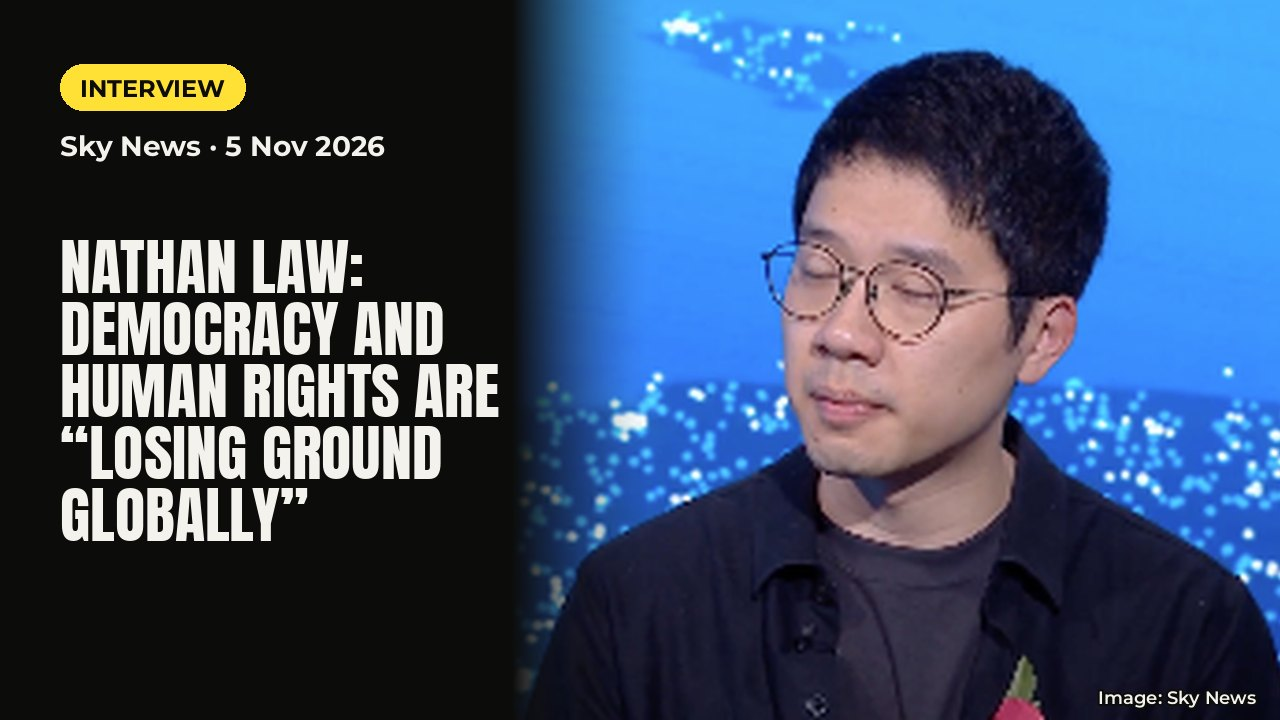
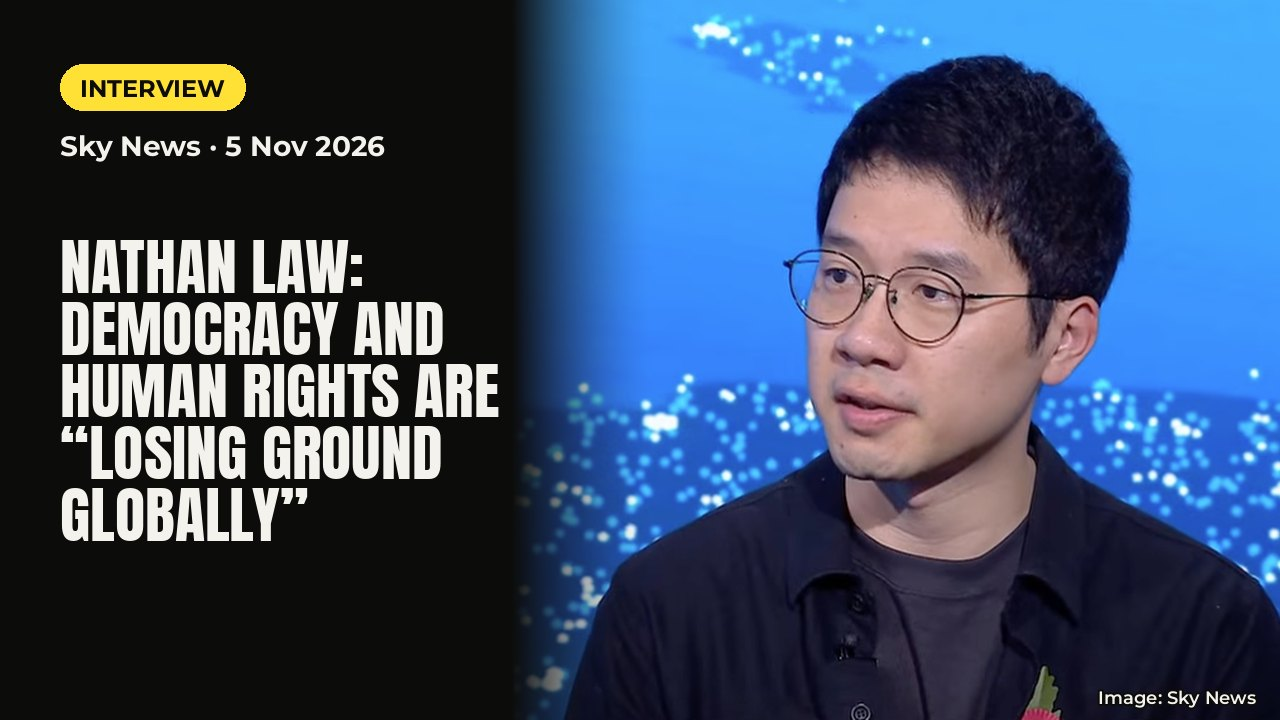
Watch: Nathan Law Sky News card uses a sharp still from the interview (credited Sky News)
Claude-Session: https://claude.ai/code/session_01MmFPUvhE95qVANrbvdPVAE

Changed region(s): [[0.4062, 0.0, 1.0, 1.0], [0.625, 0.9472, 0.6875, 1.0], [0.7812, 0.1833, 0.8125, 0.2139]]

diff --git a/film.html b/film.html
@@ -67,8 +67,8 @@
         <div class="vc-img"><img src="images/commons-2026-11-10-kearns-poster.jpg" alt="" loading="lazy"><span class="vc-play"></span></div>
         <div class="vc-k">House of Commons · 10 Nov 2026</div><h3>Alicia Kearns MP</h3><p>For the Opposition: Joshua and Jimmy Lai remain imprisoned for speaking out for democracy.</p></a><a class="vcard has-cover" href="https://podcasts.apple.com/gb/podcast/today-in-focus/id1440133626?i=1000801652639" target="_blank" rel="noopener">
         <div class="vc-img"><img src="images/covers/guardian-podcast.jpg" alt="" loading="lazy"><span class="vc-play"></span><span class="vc-ext">Opens on Apple Podcasts</span></div>
-        <div class="vc-k">The Guardian · Today in Focus · 13 Nov 2026</div><h3>Teen prodigy, Netflix star, prisoner</h3><p>Podcast: Nathan Law and journalist Danny Vincent on Joshua’s story and his new sentence.</p></a><a class="vcard has-cover" href="https://www.youtube.com/live/iw5a5aQKgNM?t=2400" target="_blank" rel="noopener">
-        <div class="vc-img"><img src="images/covers/sky-nathan.jpg" alt="" loading="lazy"><span class="vc-play"></span><span class="vc-ext">Opens on YouTube</span></div>
+        <div class="vc-k">The Guardian · Today in Focus · 13 Nov 2026</div><h3>Teen prodigy, Netflix star, prisoner</h3><p>Podcast: Nathan Law and journalist Danny Vincent on Joshua’s story and his new sentence.</p></a><a class="vcard" href="https://www.youtube.com/live/iw5a5aQKgNM?t=2400" target="_blank" rel="noopener">
+        <div class="vc-img"><img src="images/stills/sky-nathan.jpg" alt="" loading="lazy"><span class="vc-play"></span><span class="vc-ext">Opens on YouTube</span></div>
         <div class="vc-k">Sky News · 5 Nov 2026</div><h3>Nathan Law on Sky News</h3><p>On the day of the sentence, Nathan tells Yalda Hakim that democracy and human rights are “losing ground globally”.</p></a><a class="vcard has-cover" href="https://www.youtube.com/watch?v=gwQ1bK0KSJE" target="_blank" rel="noopener">
         <div class="vc-img"><img src="images/covers/byline-tv.jpg" alt="" loading="lazy"><span class="vc-play"></span><span class="vc-ext">Opens on YouTube</span></div>
         <div class="vc-k">Byline Times TV · 26 Oct 2026</div><h3>China versus Joshua Wong</h3><p>Video: filmmaker Andrew Duncan tells Joshua’s story to Adrian Goldberg.</p></a><a class="vcard" href="parliament.html#exchange-tugendhat">

diff --git a/tools/build.py b/tools/build.py
@@ -886,7 +886,7 @@ VIDEOS = [
     ("#exchange-nov", "House of Commons · 10 Nov 2026", "Emily Darlington MP", "Asks the Government to call for Joshua’s release, five days after his sentence.", "images/commons-2026-11-10-poster.jpg", False),
     ("#exchange-kearns", "House of Commons · 10 Nov 2026", "Alicia Kearns MP", "For the Opposition: Joshua and Jimmy Lai remain imprisoned for speaking out for democracy.", "images/commons-2026-11-10-kearns-poster.jpg", False),
     ("https://podcasts.apple.com/gb/podcast/today-in-focus/id1440133626?i=1000801652639", "The Guardian · Today in Focus · 13 Nov 2026", "Teen prodigy, Netflix star, prisoner", "Podcast: Nathan Law and journalist Danny Vincent on Joshua’s story and his new sentence.", "images/covers/guardian-podcast.jpg", True),
-    ("https://www.youtube.com/live/iw5a5aQKgNM?t=2400", "Sky News · 5 Nov 2026", "Nathan Law on Sky News", "On the day of the sentence, Nathan tells Yalda Hakim that democracy and human rights are “losing ground globally”.", "images/covers/sky-nathan.jpg", True),
+    ("https://www.youtube.com/live/iw5a5aQKgNM?t=2400", "Sky News · 5 Nov 2026", "Nathan Law on Sky News", "On the day of the sentence, Nathan tells Yalda Hakim that democracy and human rights are “losing ground globally”.", "images/stills/sky-nathan.jpg", True),
     ("https://www.youtube.com/watch?v=gwQ1bK0KSJE", "Byline Times TV · 26 Oct 2026", "China versus Joshua Wong", "Video: filmmaker Andrew Duncan tells Joshua’s story to Adrian Goldberg.", "images/covers/byline-tv.jpg", True),
     ("#exchange-tugendhat", "House of Commons · 10 Nov 2026", "Tom Tugendhat MP", "The Shadow Foreign Secretary names Joshua in the Commonwealth summit statement.", "images/commons-2026-11-10-tugendhat-poster.jpg", False),
     ("#exchange", "House of Commons · 1 Sep 2026", "Duncan Smith and the Foreign Secretary", "The exchange at Foreign Office Questions, the day before Joshua’s plea.", "images/commons-poster.jpg", False),
